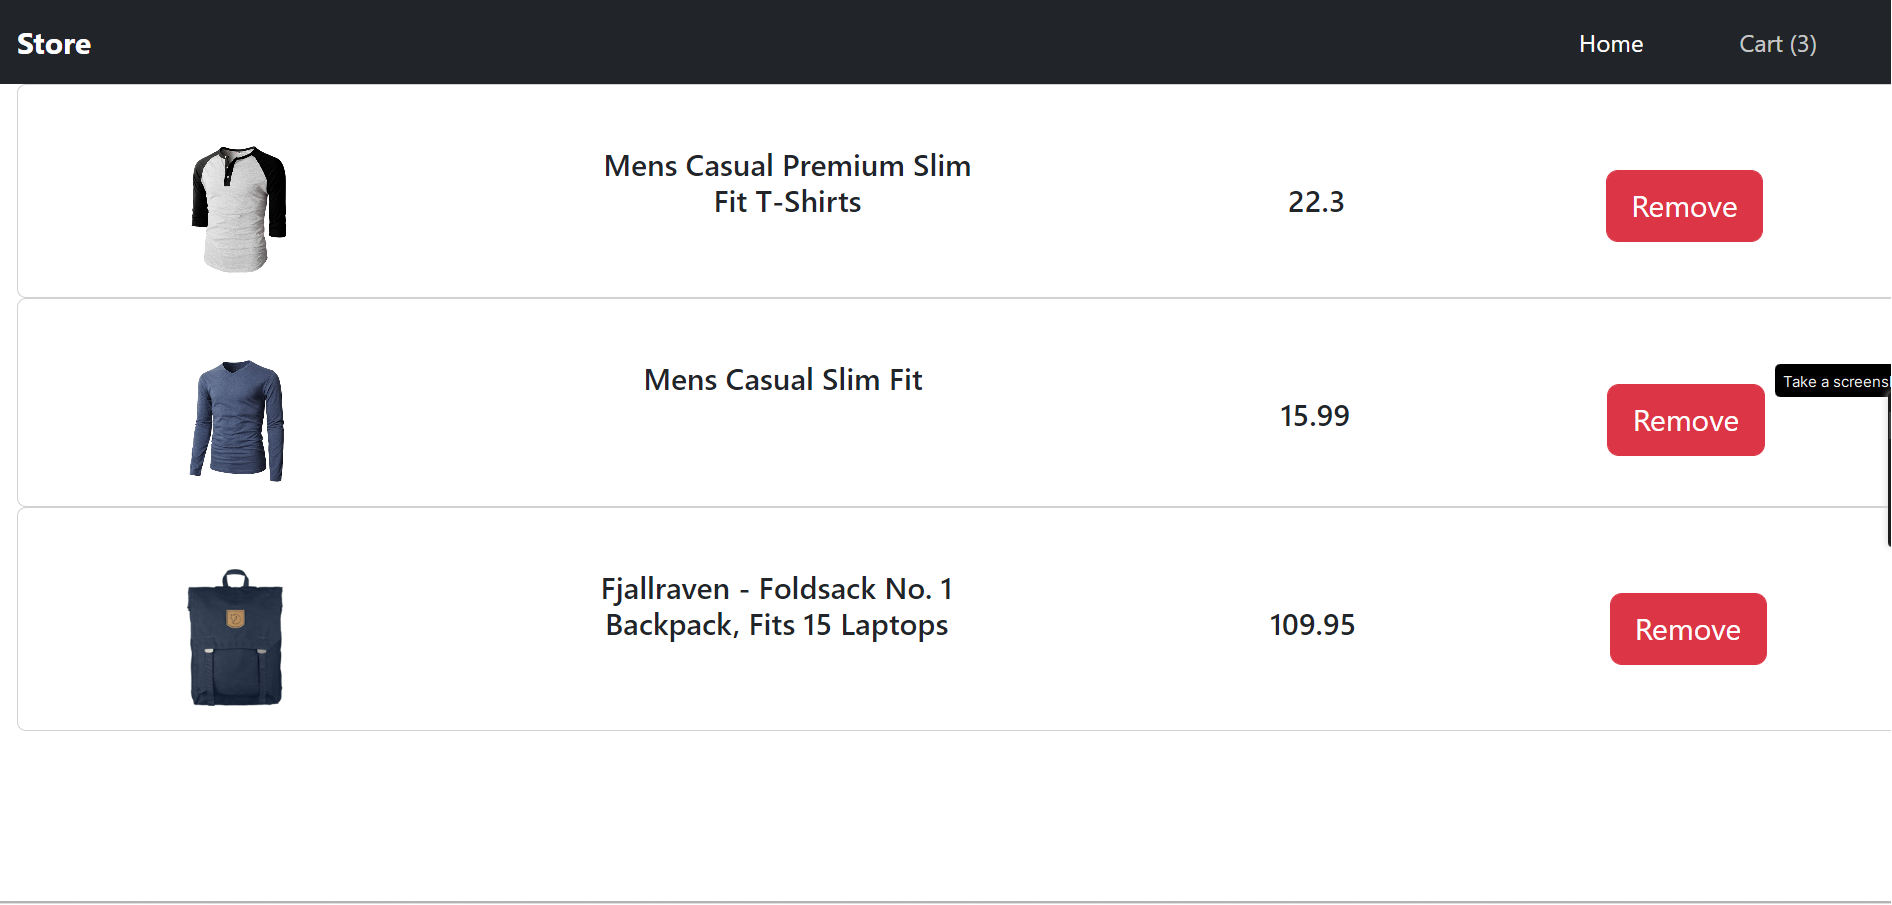
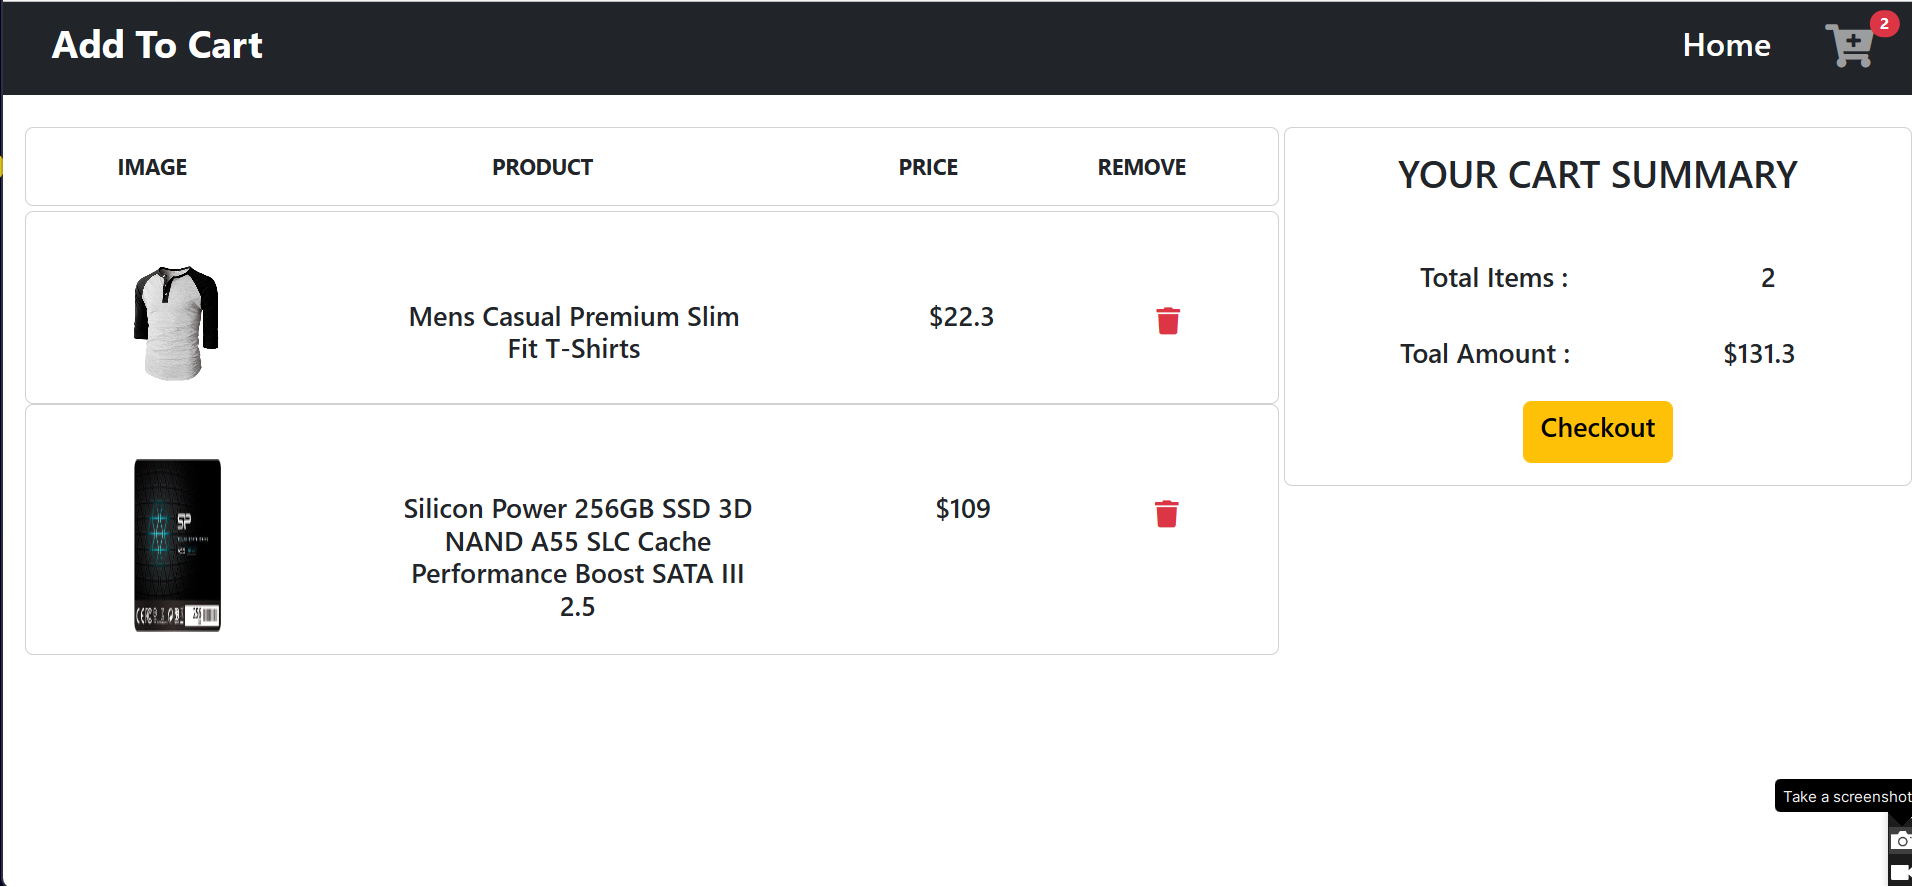
fix

diff --git a/src/Pages/Cart.js b/src/Pages/Cart.js
@@ -15,8 +15,11 @@ const Cart = () => {
     const handleRemove = (productId) => {
         dispatch(remove(productId));
         toast.success("Removed Successfully");
-
     };
+
+
+    
+
     useEffect(() => {
         setTotalAmount(products.reduce((acc, curr) => acc + curr.price, 0));
     }, [products]);
@@ -26,13 +29,22 @@ const Cart = () => {
             {
                 products.length > 0 ? (
                     <>
-                        <Container fluid className='d-lg-flex'>
+                        <Container fluid className='d-lg-flex gap-1'>
                             <ToastContainer position="top-right" autoClose={1000} />
-                            <div className='col-md-8 mx-2'>
+                            <div className='col-md-8'>
                                 <Row>
                                     <Container fluid className='mt-4'>
+                                        <Card className='mb-1'>
+                                            <CardBody className='d-flex justify-content-around'>
+                                                <div><b>IMAGE</b></div>
+                                                <div style={{ width: "20rem" }}><b>PRODUCT</b></div>
+                                                <div><b>PRICE</b></div>
+                                                <div><b>REMOVE</b></div>
+                                            </CardBody>
+                                        </Card>
                                         {products.map((product) => (
                                             <Card>
+
                                                 <CardBody key={product.id} className="d-flex justify-content-around mt-4">
                                                     <img src={product.image} alt="cartImg" className='mx-4' style={{ width: '4rem' }} />
                                                     <div style={{ width: "20rem" }}>
@@ -40,6 +52,11 @@ const Cart = () => {
                                                     </div>
                                                     <h5 className='mx-4 mt-4' >${product.price}</h5>
                                                     <div className='mt-3'>
+                                                        {/* <div>
+                                                            <button>-</button>
+                                                            <span>01</span>
+                                                            <button>+</button>
+                                                        </div> */}
                                                         <button
                                                             className="btn text-danger rounded-circle btn-lg"
                                                             onClick={() => handleRemove(product.id)}>
@@ -52,14 +69,20 @@ const Cart = () => {
                                     </Container>
                                 </Row>
                             </div>
-                            <div className='col-md-4 mx-2'>
-                                <Container fluid className='mt-4'>
+                            <div className='col-md-4'>
+                                <Container fluid className='mt-4 mb-4'>
                                     <Row>
-                                        <Card >
+                                        <Card>
                                             <CardBody>
-                                                <h3 className='mb-4 mt-4'>YOUR CART SUMMARY</h3>
-                                                <h5 className='mt-4 mb-2'>Toal Items : {products.length}</h5>
-                                                <h5 className='mb-5'>Total Amount : ${totalAmount}</h5>
+                                                <h3 className='mb-4'>YOUR CART SUMMARY</h3>
+                                                <div className='d-flex justify-content-around'>
+                                                    <div><h5 className='mt-4 mb-2'>Total Items :</h5></div>
+                                                    <div><h5 className='mt-4 mb-2'>{products.length}</h5></div>
+                                                </div>
+                                                <div className='d-flex justify-content-around mb-3'>
+                                                    <div><h5 className='mt-4 mb-2'>Toal Amount :</h5></div>
+                                                    <div><h5 className='mt-4 mb-2'>${totalAmount}</h5></div>
+                                                </div>
                                                 <button className='btn btn-warning'><h5>Checkout</h5></button>
                                             </CardBody>
                                         </Card>

diff --git a/src/store/cartSlice.js b/src/store/cartSlice.js
@@ -1,7 +1,7 @@
-const { createSlice } = require('@reduxjs/toolkit');
+const { createSlice } = require("@reduxjs/toolkit");
 
 const cartSlice = createSlice({
-    name: 'cart',
+    name: "cart",
     initialState: [],
     reducers: {
         add(state, action) {
@@ -10,7 +10,6 @@ const cartSlice = createSlice({
         remove(state, action) {
             return state.filter((item) => item.id !== action.payload);
         },
-        
     },
 });
 
